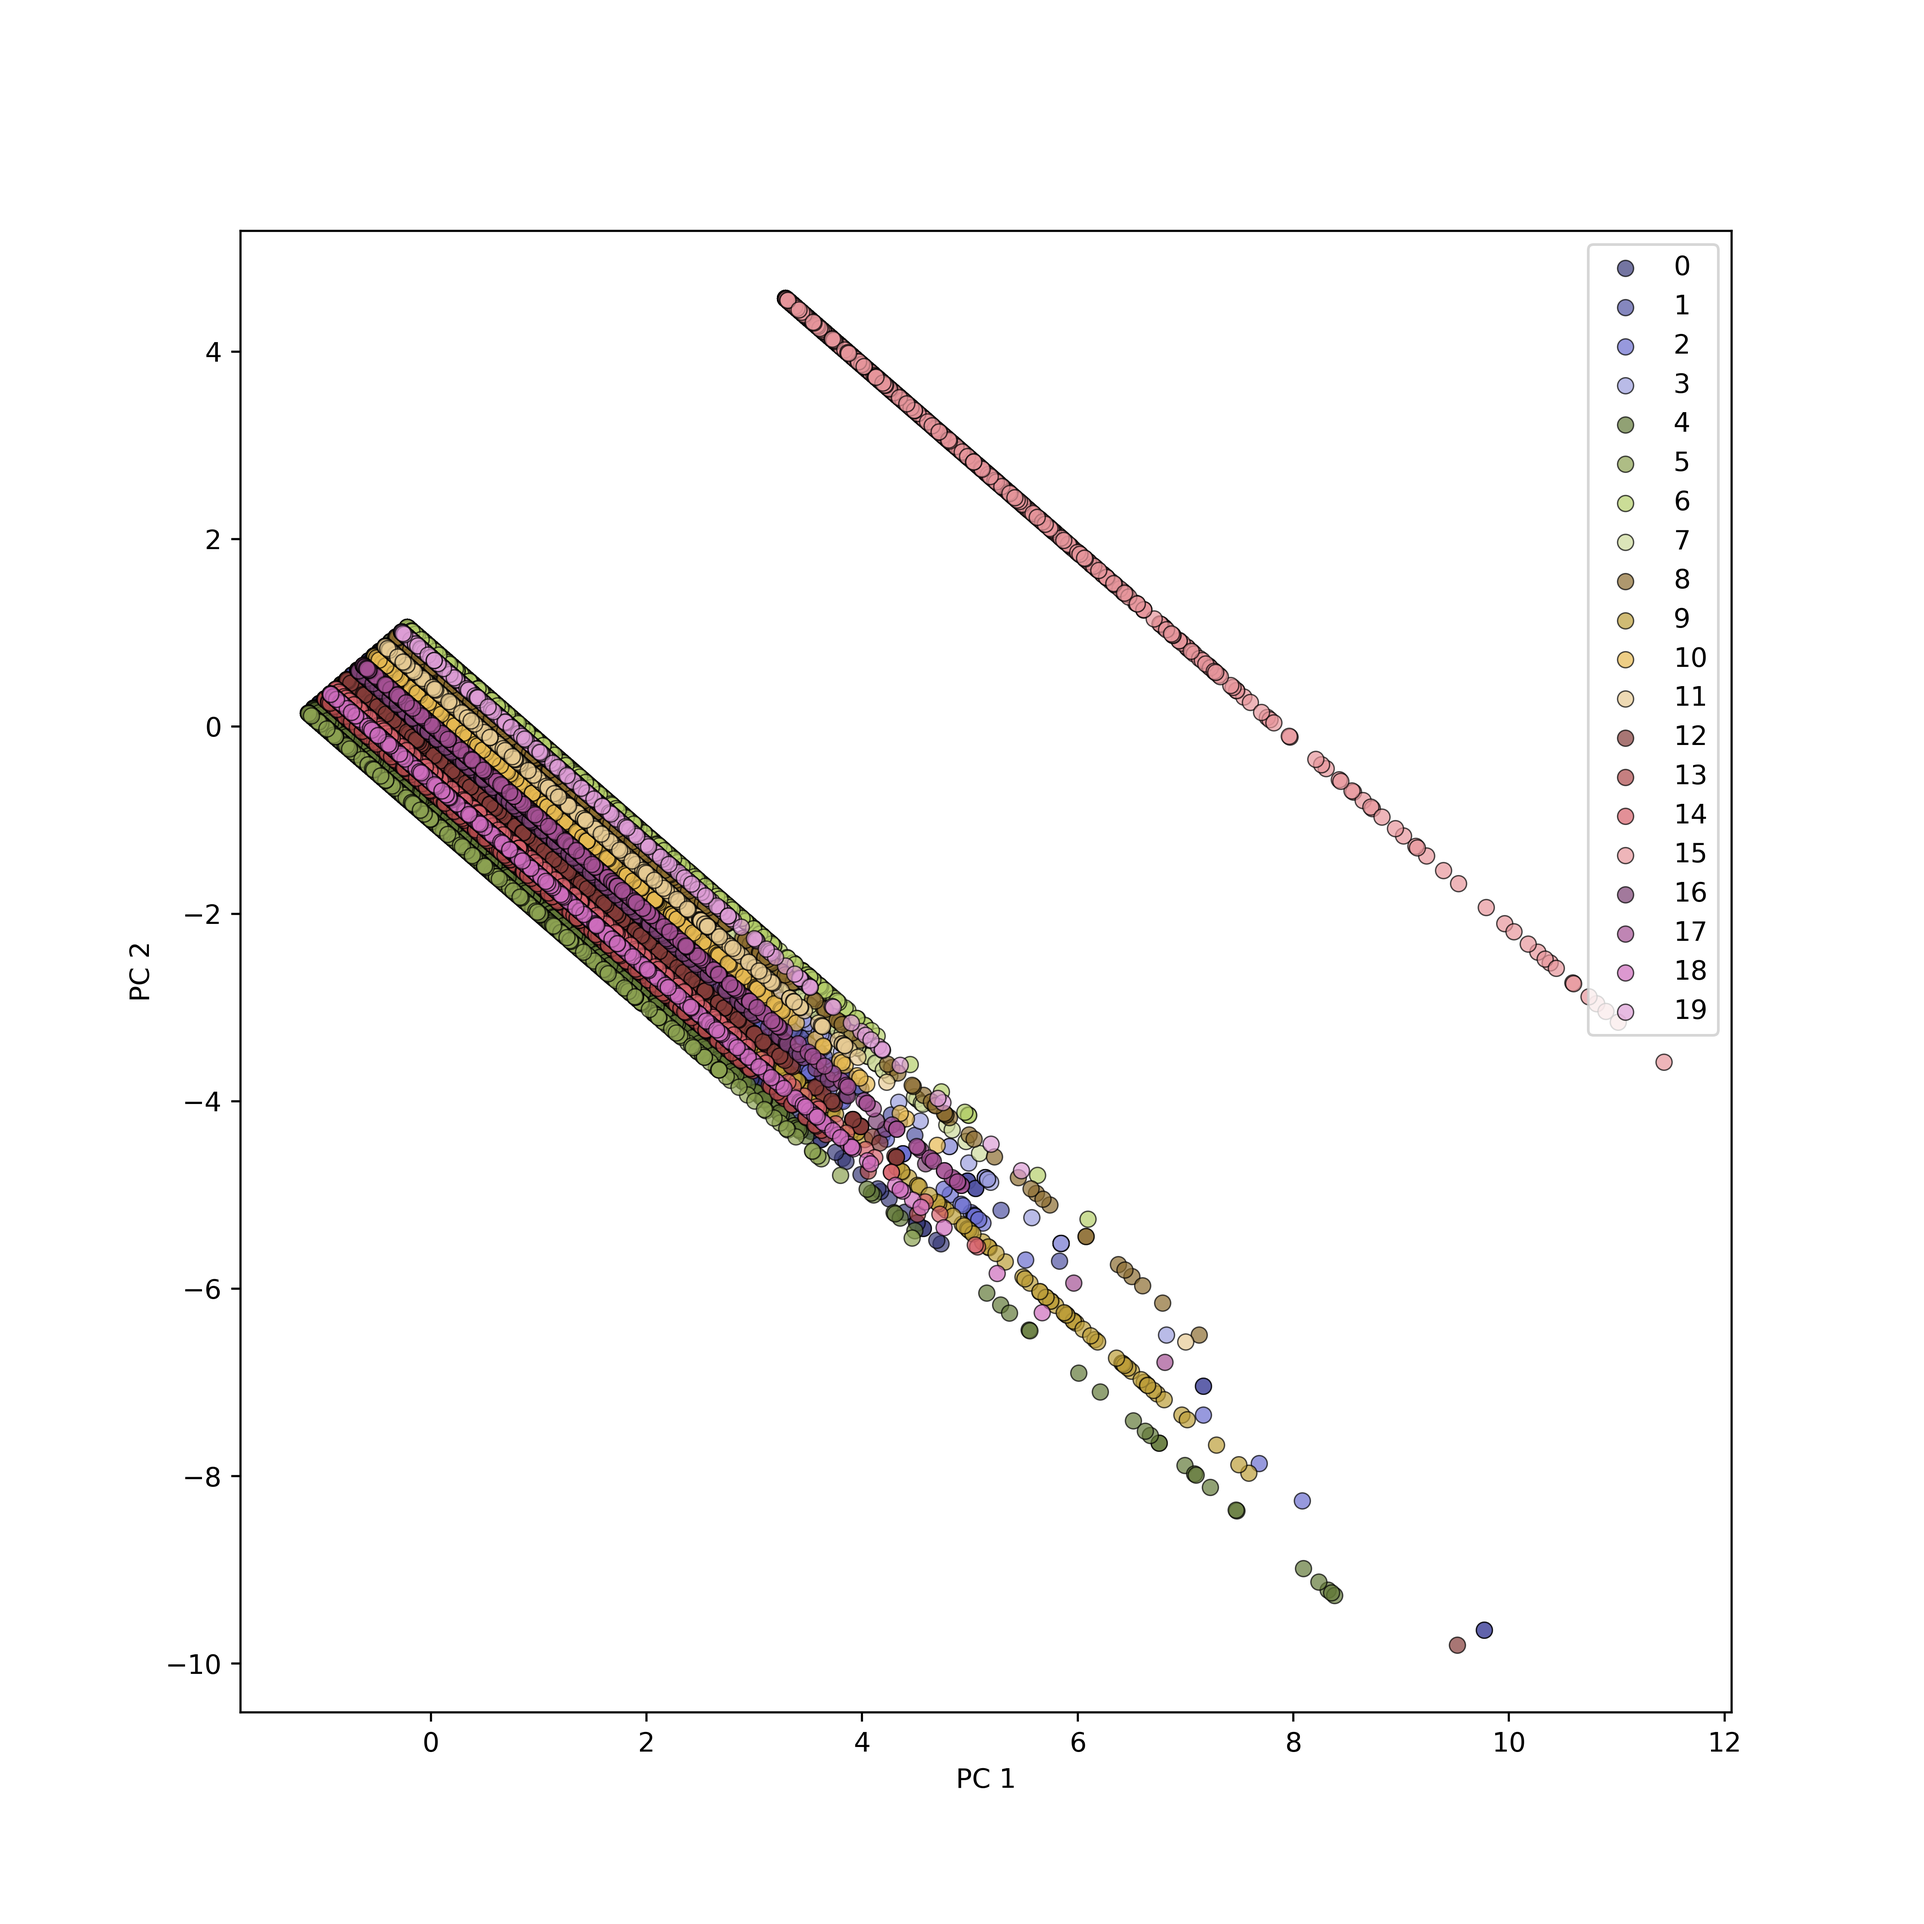
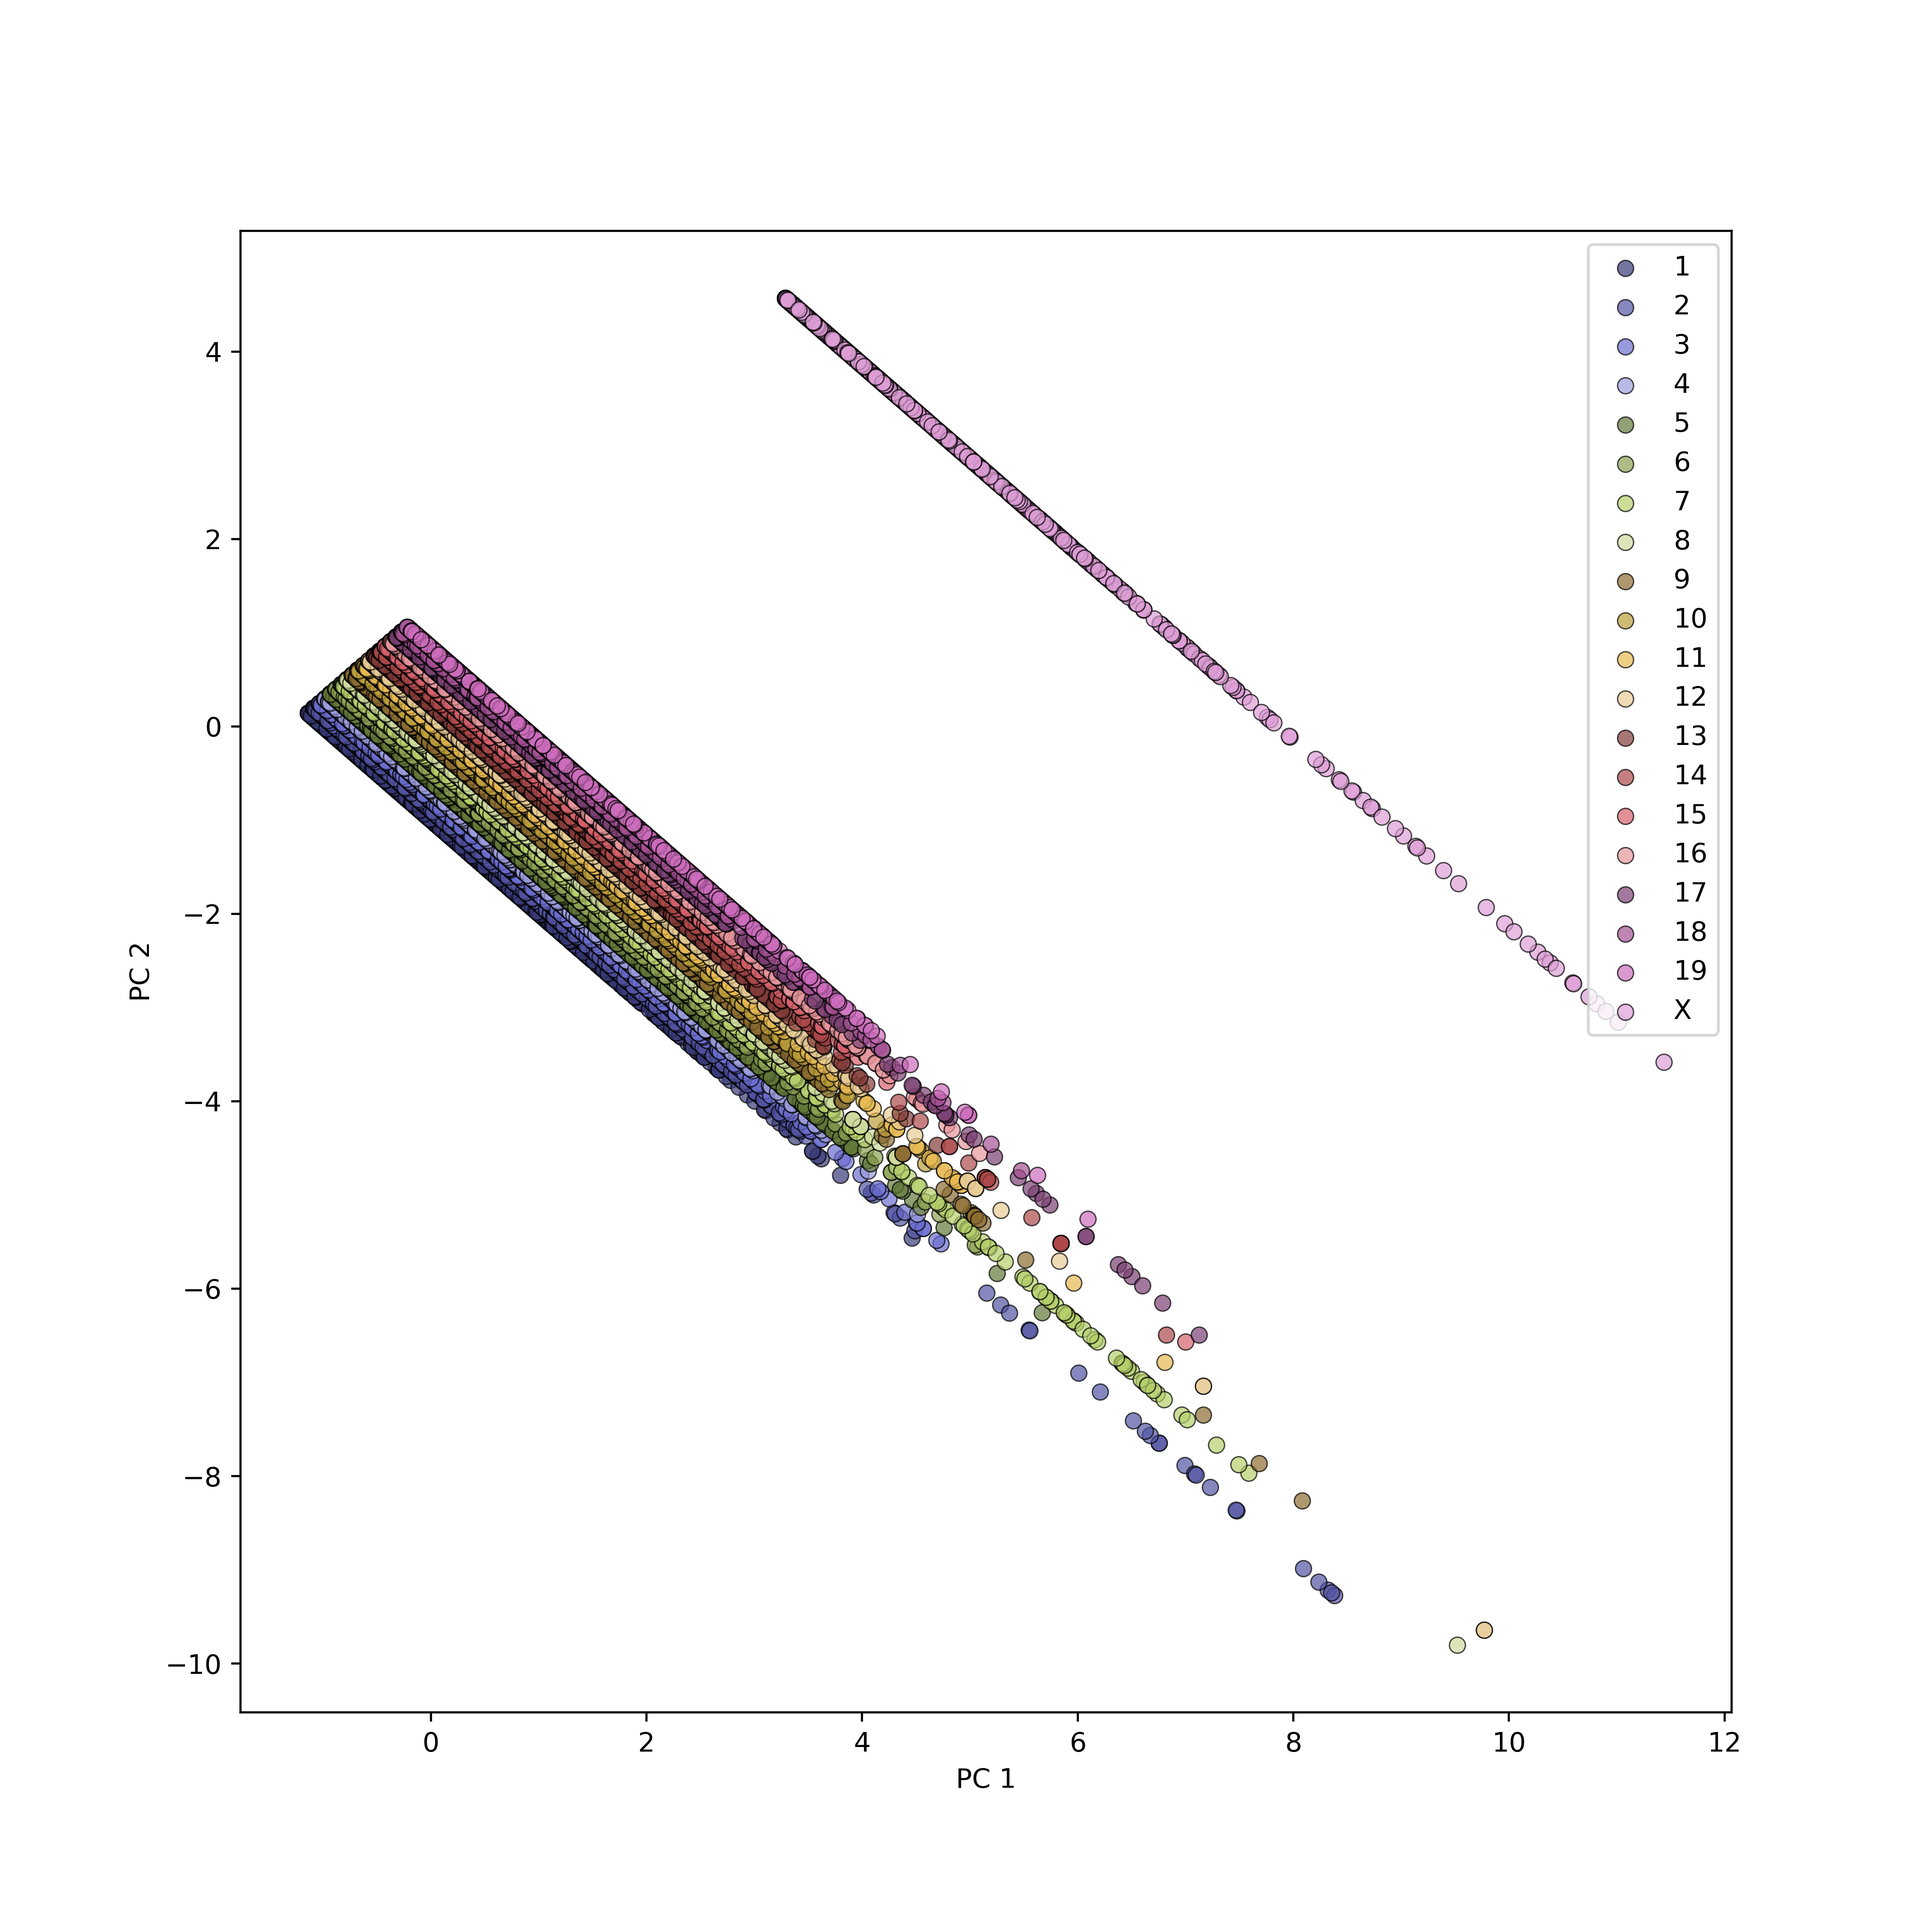
Clustering data reannotated with chromosome number and trait

diff --git a/scripts/machine_learning/kmeans_clustering_hits.py b/scripts/machine_learning/kmeans_clustering_hits.py
@@ -146,7 +146,7 @@ class Columns2Clustering(ModellingKMeans):
         
             start=0
         
-            for ind, chromo in enumerate(anno):
+            for chromo in sorted(anno):
                 
                 if chromo in dic.keys():
                     continue
@@ -159,9 +159,18 @@ class Columns2Clustering(ModellingKMeans):
             unique_labels = list(dic.values())
             unique_names = list(dic.keys())
             
+             # Rename chromo 88 to X
+            
+            final_names = []
+            for name in unique_names:
+                if name == 88:
+                    final_names.append('X')
+                final_names.append(name)
+            
+            
             for ind, label in enumerate(unique_labels):
                 mask = np.array(labels) == label
-                plt.scatter(X[mask, 0], X[mask, 1], c=colors[ind], label=label, alpha=0.7, edgecolors='black', linewidth=0.5)
+                plt.scatter(X[mask, 0], X[mask, 1], c=colors[ind], label=final_names[ind], alpha=0.7, edgecolors='black', linewidth=0.5)
                 
             
         plt.xlabel("PC 1", fontsize=10)
@@ -176,28 +185,21 @@ class Columns2Clustering(ModellingKMeans):
 import joblib
 
 def main():
-    
-    if os.path.exists('kmeans_clustering/kmeans_clustering_hits.pkl'): # check if this has already been saved
         
-        print('The model has already been trained and saved on disk!')
-        
-        
-    else: # Proceed to clustering and  save model if not yet done
-    
-        clustering_task=Columns2Clustering(X_train, X_valid, X_test)
+    clustering_task=Columns2Clustering(X_train, X_valid, X_test)
 
-        X_train_features, X_valid_features, X_test_features=clustering_task.get_features()
+    X_train_features, X_valid_features, X_test_features=clustering_task.get_features()
         
-        for n_clusters in range(2, 11): # try values between 2 and 10
+    for n_clusters in range(2, 11): # try values between 2 and 10
 
-            actual_clustering=clustering_task.perform_kmeans_clustering(X_valid_features, n_clusters)
+        actual_clustering=clustering_task.perform_kmeans_clustering(X_valid_features, n_clusters)
 
-            Columns2Clustering.visualize_plot(Columns2Clustering.plot_kmeans, actual_clustering[1], X_valid_features, n_clusters) # Plot only validation data (more manageable than training data for plotting)
+        Columns2Clustering.visualize_plot(Columns2Clustering.plot_kmeans, actual_clustering[1], X_valid_features, n_clusters) # Plot only validation data (more manageable than training data for plotting)
 
         
-        Columns2Clustering.annotate_plot(X_valid_features, list(desc_valid), 'trait')
+    Columns2Clustering.annotate_plot(X_valid_features, list(desc_valid), 'trait')
         
-        Columns2Clustering.annotate_plot(X_valid_features, list(X_valid['chr_num']), 'chromo')
+    Columns2Clustering.annotate_plot(X_valid_features, list(X_valid['chr_num']), 'chromo')
     
 
 main()

diff --git a/scripts/machine_learning/birch_clustering_hits.py b/scripts/machine_learning/birch_clustering_hits.py
@@ -131,7 +131,7 @@ class Columns2Clustering(ModellingBirch):
         
             start=0
         
-            for ind, chromo in enumerate(anno):
+            for chromo in sorted(anno):
                 
                 if chromo in dic.keys():
                     continue
@@ -144,9 +144,17 @@ class Columns2Clustering(ModellingBirch):
             unique_labels = list(dic.values())
             unique_names = list(dic.keys())
             
+            # Rename chromo 88 to X
+            
+            final_names = []
+            for name in unique_names:
+                if name == 88:
+                    final_names.append('X')
+                final_names.append(name)
+            
             for ind, label in enumerate(unique_labels):
                 mask = np.array(labels) == label
-                plt.scatter(X[mask, 0], X[mask, 1], c=colors[ind], label=label, alpha=0.7, edgecolors='black', linewidth=0.5)
+                plt.scatter(X[mask, 0], X[mask, 1], c=colors[ind], label=final_names[ind], alpha=0.7, edgecolors='black', linewidth=0.5)
                 
             
         plt.xlabel("PC 1", fontsize=10)
@@ -158,32 +166,24 @@ class Columns2Clustering(ModellingBirch):
 
 # Main
 
-import joblib
 
 def main():
-    
-    if os.path.exists('birch_clustering/birch_clustering_hits.pkl'): # check if this has already been saved
-        
-        print('The model has already been trained and saved on disk!')
-        
-        
-    else: # Proceed to clustering and  save model if not yet done
 
-        clustering_task=Columns2Clustering(X_train, X_valid, X_test)
+    clustering_task=Columns2Clustering(X_train, X_valid, X_test)
 
-        X_train_features, X_valid_features, X_test_features=clustering_task.get_features()
+    X_train_features, X_valid_features, X_test_features=clustering_task.get_features()
         
-        for n_clusters in range(2, 11): # try values between 2 and 10
+    for n_clusters in range(2, 11): # try values between 2 and 10
 
-            actual_clustering=clustering_task.perform_birch(X_valid_features, n_clusters)
+        actual_clustering=clustering_task.perform_birch(X_valid_features, n_clusters)
 
-            Columns2Clustering.visualize_plot(Columns2Clustering.plot_birch, actual_clustering[1], X_valid_features, n_clusters) # Plot only validation data (more manageable than training data for plotting)
+        Columns2Clustering.visualize_plot(Columns2Clustering.plot_birch, actual_clustering[1], X_valid_features, n_clusters) # Plot only validation data (more manageable than training data for plotting)
 
         
-        Columns2Clustering.annotate_plot(X_valid_features, list(desc_valid), 'trait')
+    Columns2Clustering.annotate_plot(X_valid_features, list(desc_valid), 'trait')
         
         
-        Columns2Clustering.annotate_plot(X_valid_features, list(X_valid['chr_num']), 'chromo')
+    Columns2Clustering.annotate_plot(X_valid_features, list(X_valid['chr_num']), 'chromo')
     
 
 main()

diff --git a/scripts/machine_learning/kmeans_clustering_qtl.py b/scripts/machine_learning/kmeans_clustering_qtl.py
@@ -154,7 +154,7 @@ class Columns2Clustering(ModellingKMeans):
         
             start=0
         
-            for ind, chromo in enumerate(anno):
+            for chromo in sorted(anno):
                 
                 if chromo in dic.keys():
                     continue
@@ -167,9 +167,18 @@ class Columns2Clustering(ModellingKMeans):
             unique_labels = list(dic.values())
             unique_names = list(dic.keys())
             
+             # Rename chromo 88 to X
+            
+            final_names = []
+            for name in unique_names:
+                if name == 88:
+                    final_names.append('X')
+                final_names.append(name)
+            
+            
             for ind, label in enumerate(unique_labels):
                 mask = np.array(labels) == label
-                plt.scatter(X[mask, 0], X[mask, 1], c=colors[ind], label=label, alpha=0.7, edgecolors='black', linewidth=0.5)
+                plt.scatter(X[mask, 0], X[mask, 1], c=colors[ind], label=final_names[ind], alpha=0.7, edgecolors='black', linewidth=0.5)
                 
             
         plt.xlabel("PC 1", fontsize=10)
@@ -185,26 +194,20 @@ import joblib
 
 def main():
     
-    if os.path.exists('kmeans_clustering/kmeans_clustering_qtl.pkl'): # check if this has already been saved
-        
-        print('The model has already been trained and saved on disk!')
-        
-    else: # Proceed to clustering and  save model if not yet done
-    
-        clustering_task=Columns2Clustering(X_train, X_valid, X_test)
+    clustering_task=Columns2Clustering(X_train, X_valid, X_test)
 
-        X_train_features, X_valid_features, X_test_features=clustering_task.get_features()
+    X_train_features, X_valid_features, X_test_features=clustering_task.get_features()
         
-        for n_clusters in range(2, 11): # try values between 2 and 10
+    for n_clusters in range(2, 11): # try values between 2 and 10
 
-            actual_clustering=clustering_task.perform_kmeans_clustering(X_valid_features, n_clusters)
+        actual_clustering=clustering_task.perform_kmeans_clustering(X_valid_features, n_clusters)
 
-            Columns2Clustering.visualize_plot(Columns2Clustering.plot_kmeans, actual_clustering[1], X_valid_features, n_clusters) # Plot only validation data (more manageable than training data for plotting)
+        Columns2Clustering.visualize_plot(Columns2Clustering.plot_kmeans, actual_clustering[1], X_valid_features, n_clusters) # Plot only validation data (more manageable than training data for plotting)
 
         
-        Columns2Clustering.annotate_plot(X_valid_features, list(desc_valid), 'trait')
+    Columns2Clustering.annotate_plot(X_valid_features, list(desc_valid), 'trait')
         
-        Columns2Clustering.annotate_plot(X_valid_features, list(X_valid['chr_num']), 'chromo')
+    Columns2Clustering.annotate_plot(X_valid_features, list(X_valid['chr_num']), 'chromo')
     
     
 

diff --git a/scripts/machine_learning/birch_clustering_qtl.py b/scripts/machine_learning/birch_clustering_qtl.py
@@ -135,7 +135,7 @@ class Columns2Clustering(ModellingBirch):
         
             start=0
         
-            for ind, chromo in enumerate(anno):
+            for chromo in sorted(anno):
                 
                 if chromo in dic.keys():
                     continue
@@ -148,9 +148,17 @@ class Columns2Clustering(ModellingBirch):
             unique_labels = list(dic.values())
             unique_names = list(dic.keys())
             
+             # Rename chromo 88 to X
+            
+            final_names = []
+            for name in unique_names:
+                if name == 88:
+                    final_names.append('X')
+                final_names.append(name)
+            
             for ind, label in enumerate(unique_labels):
                 mask = np.array(labels) == label
-                plt.scatter(X[mask, 0], X[mask, 1], c=colors[ind], label=label, alpha=0.7, edgecolors='black', linewidth=0.5)
+                plt.scatter(X[mask, 0], X[mask, 1], c=colors[ind], label=final_names[ind], alpha=0.7, edgecolors='black', linewidth=0.5)
                 
             
         plt.xlabel("PC 1", fontsize=10)
@@ -166,26 +174,20 @@ import joblib
 
 def main():
 
-    if os.path.exists('birch_clustering/birch_clustering_qtl.pkl'): # check if this has already been saved
+    clustering_task=Columns2Clustering(X_train, X_valid, X_test)
+
+    X_train_features, X_valid_features, X_test_features=clustering_task.get_features()
+
+    for n_clusters in range(2, 11): # try values between 2 and 10
         
-        print('The model has already been trained and saved on disk!')
-        
-    else: # Proceed to clustering and  save model if not yet done
+        actual_clustering=clustering_task.perform_birch(X_valid_features, n_clusters)
 
-        clustering_task=Columns2Clustering(X_train, X_valid, X_test)
-
-        X_train_features, X_valid_features, X_test_features=clustering_task.get_features()
-
-        for n_clusters in range(2, 11): # try values between 2 and 10
-        
-            actual_clustering=clustering_task.perform_birch(X_valid_features, n_clusters)
-
-            Columns2Clustering.visualize_plot(Columns2Clustering.plot_birch, actual_clustering[1], X_valid_features, n_clusters) # Plot only validation data (more manageable than training data for plotting)
+        Columns2Clustering.visualize_plot(Columns2Clustering.plot_birch, actual_clustering[1], X_valid_features, n_clusters) # Plot only validation data (more manageable than training data for plotting)
 
         
-        Columns2Clustering.annotate_plot(X_valid_features, list(desc_valid), 'trait')
+    Columns2Clustering.annotate_plot(X_valid_features, list(desc_valid), 'trait')
         
-        Columns2Clustering.annotate_plot(X_valid_features, list(X_valid['chr_num']), 'chromo')
+    Columns2Clustering.annotate_plot(X_valid_features, list(X_valid['chr_num']), 'chromo')
     
 
 main()
